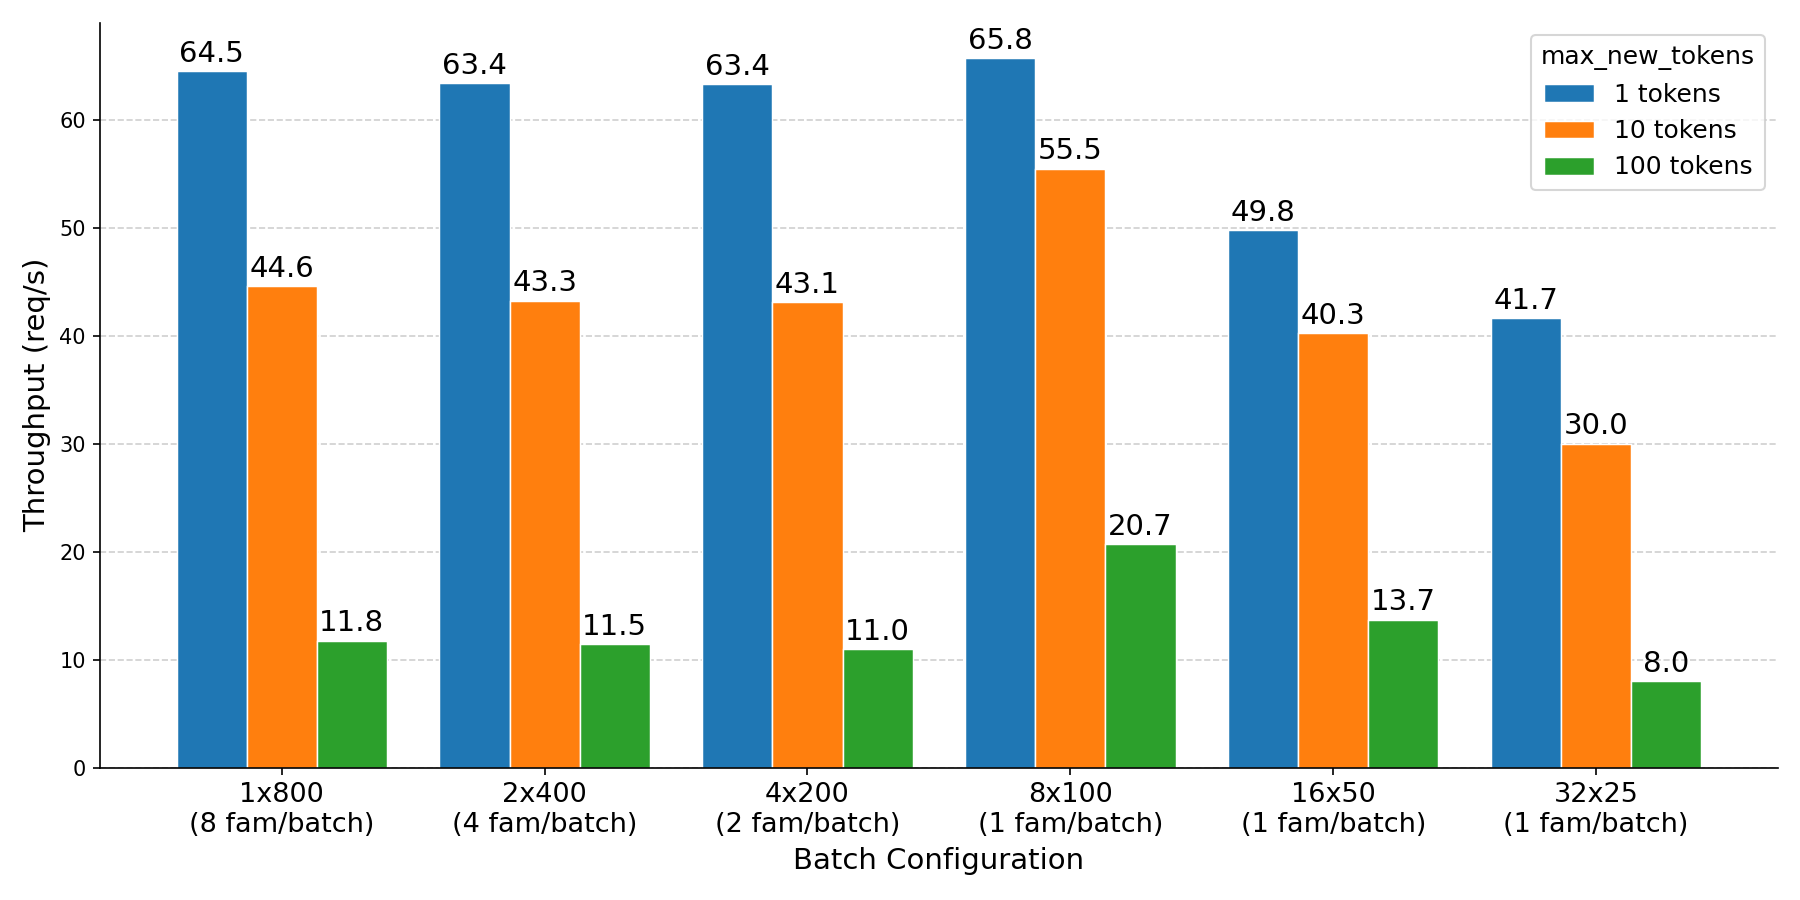
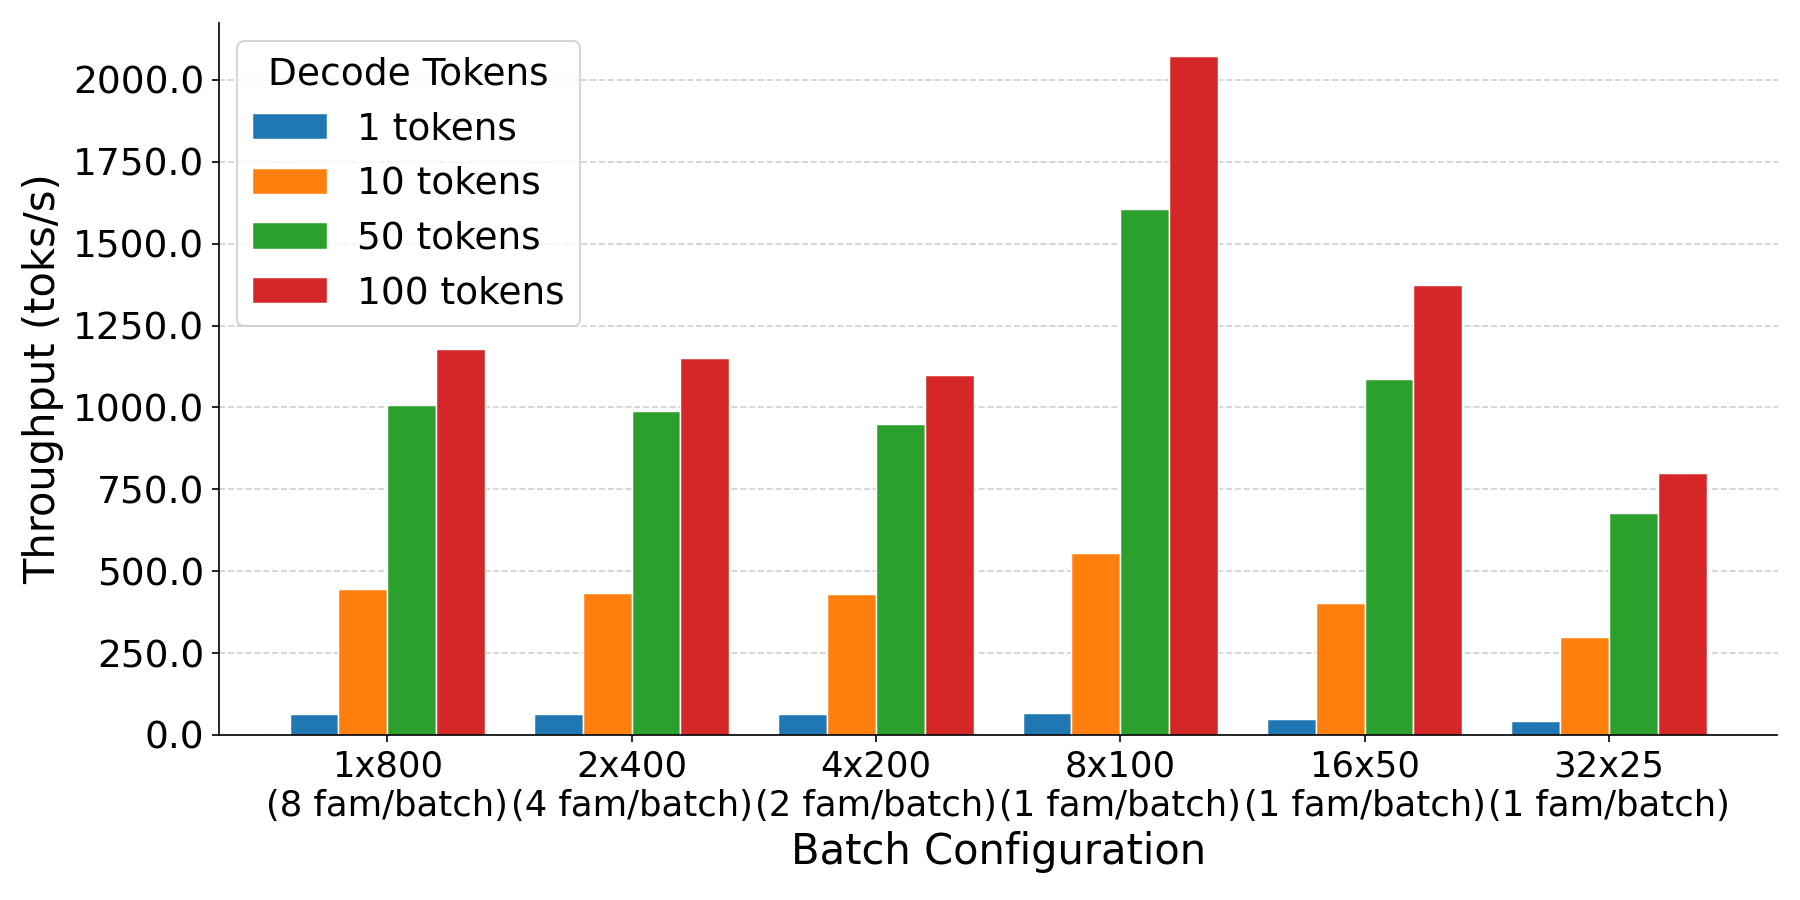
homo-hetero

diff --git a/code/vllm/homo_hetero/plot_barchart.py b/code/vllm/homo_hetero/plot_barchart.py
@@ -14,8 +14,11 @@ os.makedirs(args.outdir, exist_ok=True)
 df = pd.read_csv(args.csv)
 df["avg_throughput_req_s"] = pd.to_numeric(df["avg_throughput_req_s"], errors="coerce")
 
-# Keep only max_new_tokens = 1, 10, 100
-df = df[df["max_new_tokens"].isin([1, 10, 100])].copy()
+# 🔹 Multiply throughput by decode tokens
+df["throughput_tok_s"] = df["avg_throughput_req_s"] * df["max_new_tokens"]
+
+# Keep only selected decode lengths
+df = df[df["max_new_tokens"].isin([1, 10, 50, 100])].copy()
 
 # Optional: ensure sorted order
 df = df.sort_values(["max_new_tokens", "mode"]).reset_index(drop=True)
@@ -29,14 +32,12 @@ SETTINGS = [
     "32x25\n(1 fam/batch)",
 ]
 
-# Sort tokens for consistent legend ordering
 tokens = sorted(df["max_new_tokens"].unique())
 num_tokens = len(tokens)
 num_configs = len(SETTINGS)
 
-# Bar positioning
 x = np.arange(num_configs)
-bar_width = 0.8 / num_tokens  # total width capped at 0.8
+bar_width = 0.8 / num_tokens
 
 fig, ax = plt.subplots(figsize=(12, 6))
 
@@ -47,7 +48,8 @@ for i, tok in enumerate(tokens):
         print(f"[WARN] max_new_tokens={tok} has {len(subset)} rows (expected {num_configs}), skipping.")
         continue
 
-    throughputs = subset["avg_throughput_req_s"].tolist()
+    # 🔹 Use token throughput instead of req throughput
+    throughputs = subset["throughput_tok_s"].tolist()
 
     offset = (i - num_tokens / 2) * bar_width + bar_width / 2
     bars = ax.bar(
@@ -59,30 +61,18 @@ for i, tok in enumerate(tokens):
         linewidth=0.7
     )
 
-    # Optional: annotate bars
-    for bar, val in zip(bars, throughputs):
-        ax.text(
-            bar.get_x() + bar.get_width() / 2,
-            bar.get_height() + 0.3,
-            f"{val:.1f}",
-            ha="center",
-            va="bottom",
-            fontsize=14
-        )
-
-# Formatting
 ax.set_xticks(x)
-ax.set_xticklabels(SETTINGS, fontsize=13)
-ax.set_ylabel("Throughput (req/s)", fontsize=14)
-ax.set_xlabel("Batch Configuration", fontsize=14)
-# ax.set_title("Throughput vs Batch Configuration (Grouped by Decode Tokens)", fontsize=15, fontweight="bold", pad=14)
+ax.set_xticklabels(SETTINGS, fontsize=17)
+ax.set_yticklabels(ax.get_yticks(), fontsize=18)
+ax.set_ylabel("Throughput (toks/s)", fontsize=20)  # 🔹 Updated label
+ax.set_xlabel("Batch Configuration", fontsize=20)
 
 ax.yaxis.grid(True, linestyle="--", alpha=0.6)
 ax.set_axisbelow(True)
 ax.spines["top"].set_visible(False)
 ax.spines["right"].set_visible(False)
 
-ax.legend(title="max_new_tokens", fontsize=12, title_fontsize=12)
+ax.legend(title="Decode Tokens", fontsize=18, title_fontsize=18)
 
 plt.tight_layout()
 
